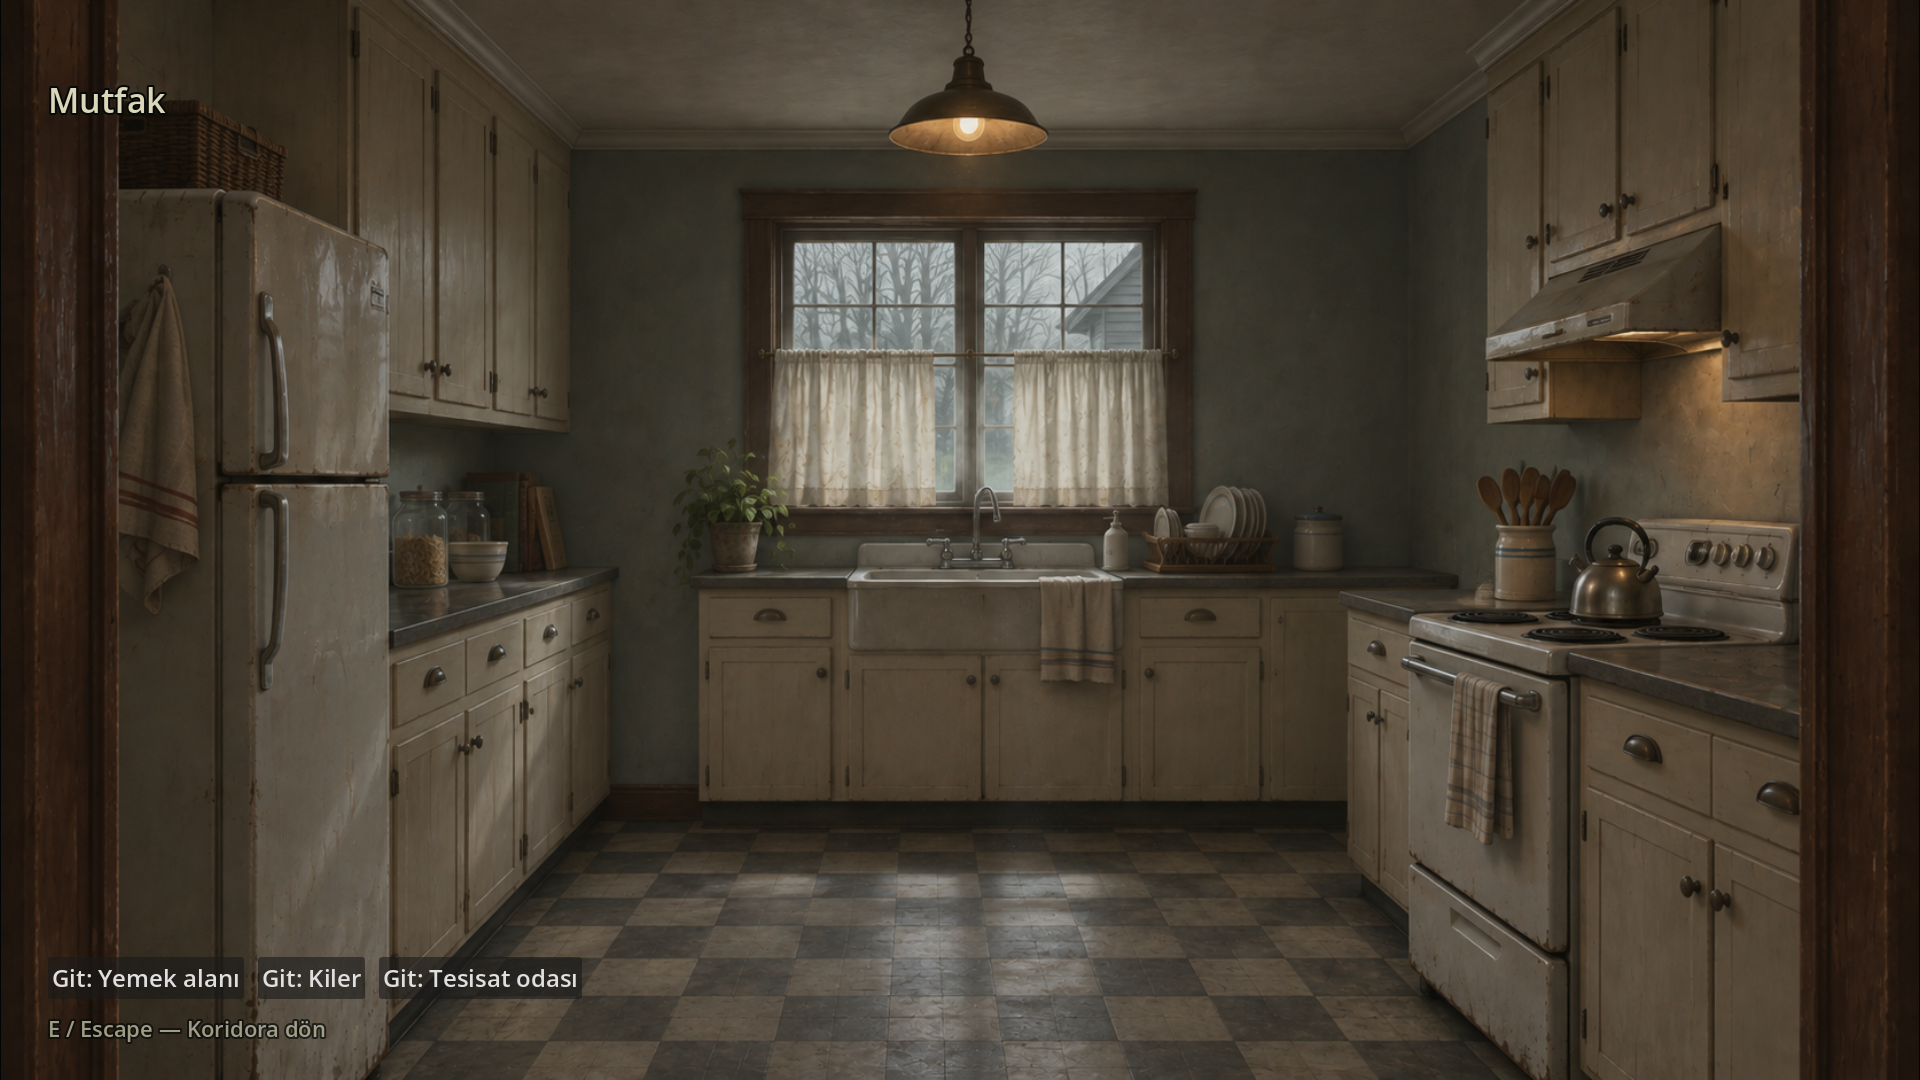
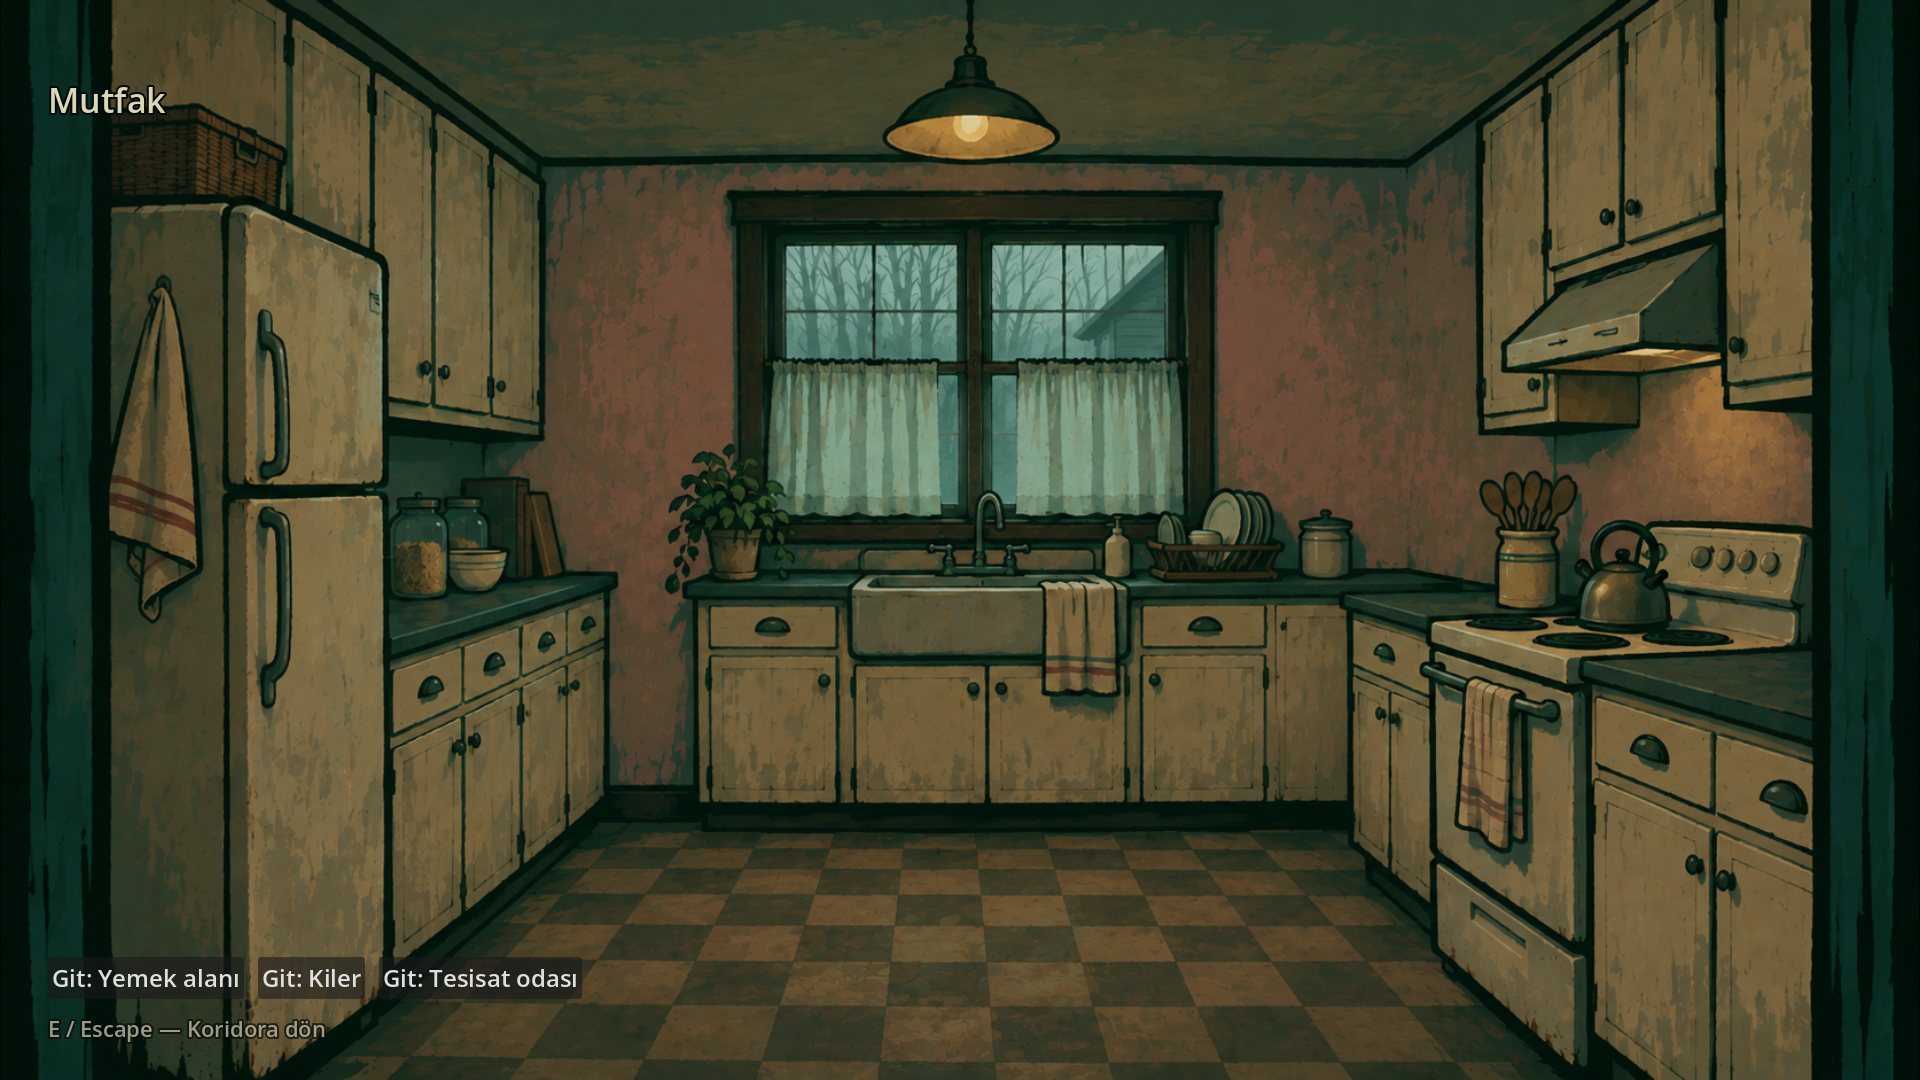
feat: animate physical room entry and unify kitchen graphic style

diff --git a/docs/qa/DoorOpeningTransition.md b/docs/qa/DoorOpeningTransition.md
@@ -1,0 +1,11 @@
+# Kapı açılışı — görsel yeniden yapımın ilk dilimi
+
+Sahibin son geri bildirimi görsel tutarlılık, geniş ve atmosferli koridor ve kapının fiziksel açılışıdır. Gece tanıklığı üretimi ertelendi. Bu teslim koridor yeniden yapımının tamamı değildir.
+
+RoomDoor artık Hinge → DoorLeaf altındaki panel/kol geometrisini 0.65 saniyede 82 derece açar; çerçeve ve ışık anahtarı sabit kalır. Oyuncunun hangi tarafta olduğuna göre uzak tarafa açılır. Sabit çarpışma korunur; oyuncu animasyonda yürüyemez ve boş 3D odaya girmez. Açılan aralıkta RoomVisuals'ın gün/saat/elektrik durumuna uygun gerçek oda resmi görünür. Görüntü kapıya sıkıştırılmaz: merkezden en-boy oranı korunarak kırpılır. Sonra RoomView 0.25 saniyede görünür olur. Tekrar basma ikinci geçiş oluşturmaz. Oda kapandığında yaprak ve eşik görüntüsü sıfırlanır. Ön kapı/ziyaretçi konuşması ve kilitli kapı davranışı korunur.
+
+Dosyalar: scripts/house/room_door.gd, house_builder.gd; scripts/ui/room_view.gd; scripts/core/event_bus.gd; scripts/dev/house_blockout.gd; tests/interaction_test.gd; tests/door_transition_test.gd/.tscn; tools/Run-Tests.ps1. Hiyerarşi HouseBuilder → RoomDoor(StaticBody3D) → CollisionShape3D + Hinge/DoorLeaf + sabit çerçeve/anahtar + gerektiğinde RoomThreshold. Yeni autoload yok. Godot 4.7.2 içe aktar; koridorda E ile oda kapısını kullan. Programatik RoomView.open ve iç oda bağlantıları doğrudan açılır; 3D kapı etkileşimi animasyonlu yoldur. Ses tasarımı bu teslimde eklenmedi.
+
+Doğrulama: 22 paket/6033 denetim geçti; gerçek Forward+ DOOR TRANSITION TEST 9 denetim ve door-opening.png görüntüsü açılıp incelendi. Menteşe, oda görünmeden önce hareket, geçişte kontrol kilidi, eşik görüntüsü, doğru odaya tek açılış, fade, çıkışta reset ve kampanya saatinin değişmemesi sınandı. Mevcut Interaction testi açılış süresine göre güncellendi; anlık açılışı varsaymıyor. Başlangıç başlığı ekran görüntüsünde test kampanyası açılış bildirimi olarak hâlâ görünüyor; oda resminin parçası değil.
+
+Bilinen sınırlar: Kamera kapıya otomatik yaklaşmıyor; oda içi 2D bağlantılar animasyonsuz. Kapatma sırasında ters menteşe animasyonu yok. Eşik resminde NPC/prop katmanı henüz yok; tam oda açılınca katmanlar mevcut düzenle yüklenir. Koridor geometri/paleti ve diğer odaların gerçekçi geçici sanatı henüz düzeltilmedi. Bunlar sıradaki ana görsel iştir, bitmiş diye sunulmaz.

diff --git a/docs/coordination/STATUS.md b/docs/coordination/STATUS.md
@@ -56,3 +56,6 @@ Yerleştirmede temel kontrol kaydı ve üç kişisel yanıt; aynı gün ücretsi
 
 ## Tanıklık veri sözleşmesi
 NightObservation saf doğrulayıcı ve üç gerçek üst kat rotası hazır. 21 paket/6024 denetim geçti. docs/qa/NightObservation.md. Bu modül canlı oyunda henüz tanık üretmez; sahne-yerel olay üretimi, gerçek erişim/uyanıklık ölçümü ve kayıt bağlantısı sonraki iştir. Eski kayda tanık eklenmez.
+
+## Görsel yeniden yapım — sahibin yeni önceliği
+Koridor baştan yapılmasına izin verildi; diğer odalar oturma odası çizim diline taşınacak. İlk dilim: fiziksel menteşe/oda eşiği/fade kapı geçişi, 22 paket/6033 denetim, GPU9. Mutfak aynı referansla yeniden çizilip bağlandı, gerçek RoomView görüntüsü incelendi. Koridor geometri/malzeme yenilemesi ve kalan 11 oda henüz yapılmadı. Mutfakta ayrı gece/elektriksiz görseller de açık. Gece tanığı üretimi öncelik dışına alındı. docs/qa/DoorOpeningTransition.md; docs/art/kitchen-graphic-revision.json.

diff --git a/docs/DecisionLog.md b/docs/DecisionLog.md
@@ -85,3 +85,6 @@ Güncel dengeleme varsayımı (DAYTIME-REST): gündüz 60 dakika dinlenme 15 ene
 |---|---|
 | 2026-11-16 | Proje iskeleti ve ilk belge seti oluşturuldu. |
 | 2026-11-16 | Faz 1.1 doğrulandı: proje Godot 4.7.2'de başsız içe aktarıldı ve açılış sahnesi hatasız, uyarısız çalıştı; dokuz girdi eylemi kaydedildi. Pencereli (görsel) çalıştırma henüz yapılmadı. |
+
+## Sahip geri bildirimi — koridor ve oda tutarlılığı
+Sahip oturma odasını hedefe yakın buldu, diğer odaların gerçekçi geçici üslubunu reddetti. Koridorun dar, atmosferden uzak ve harita açısından başarısız olduğunu belirtti; tamamen baştan yapılmasına açıkça izin verdi. Kapıya etkileşimde fiziksel açılış animasyonu istedi. Bu yön mevcut onaylı çizimsel oda stilinin bütün eve taşınmasıdır; PS1/pikselleştirme geri getirilmeyecek. İlk teknik dilim kapı açılışıdır; diğer görsel işler devam eder.

diff --git a/docs/coordination/HANDOFF.md b/docs/coordination/HANDOFF.md
@@ -142,3 +142,6 @@ Dayanak d558a2d. Temel kontrol ve kişisel bakım yanıtları, ücretsiz aynı g
 
 ## 2026-11-16 / Codex / NIGHT-WITNESS-001
 Dayanak dc311d5. Yalnız veri/rota doğrulayıcısı; oyun olay üretimi tamamlanmadı. 21 paket/6024; observation38. Gelecek üretici gerçek kaynaklardan snapshot almalı, görünür teleport ve geçmiş tanık yok. Sahiplik bırakıldı.
+
+## 2026-11-16 / Codex / VISUAL-REBUILD-001 ilk dilim
+Sahip odaların tutarsızlığını, koridorun darlığını/atmosferini ve anlık resim geçişini reddetti; koridorun tamamen yeniden yapımına izin verdi. Menteşe ve eşik/fade çalışıyor, 22 paket/6033, GPU9. Mutfak yeni çizimsel üslupta gerçek RoomView'da incelendi. Görev AKTİF: koridor ve diğer odalar devam. Gece tanığı üretimine başlamadan öncelik değişti; o kod yazılmadı.

diff --git a/docs/coordination/TASKS.md b/docs/coordination/TASKS.md
@@ -40,3 +40,5 @@ dayanak commit. Bitirince dosya sahipliğini bırak ve HANDOFF.md'ye sonuç yaz.
 | DAY4-CARE-001 | TAMAM | Codex (sahiplik bırakıldı) | isolation.gd/json, localization, isolation_test ve QA | 2026-11-16 |
 
 | NIGHT-WITNESS-001 | TAMAM | Codex (sahiplik bırakıldı; yalnız doğrulayıcı) | scripts/narrative/night_observation.gd, resources/events/night_observation.json, tests/night_observation_test.*, tools/Run-Tests.ps1, docs/qa/NightObservation.md | 2026-11-16 |
+
+| VISUAL-REBUILD-001 | AKTİF | Codex | Sahibin geri bildirimi: koridor baştan, tüm odalarda çizimsel tutarlılık; ilk dilim room_door/house_builder, RoomView, EventBus, HouseBlockout ve etkileşim testi | 2026-11-16 |
